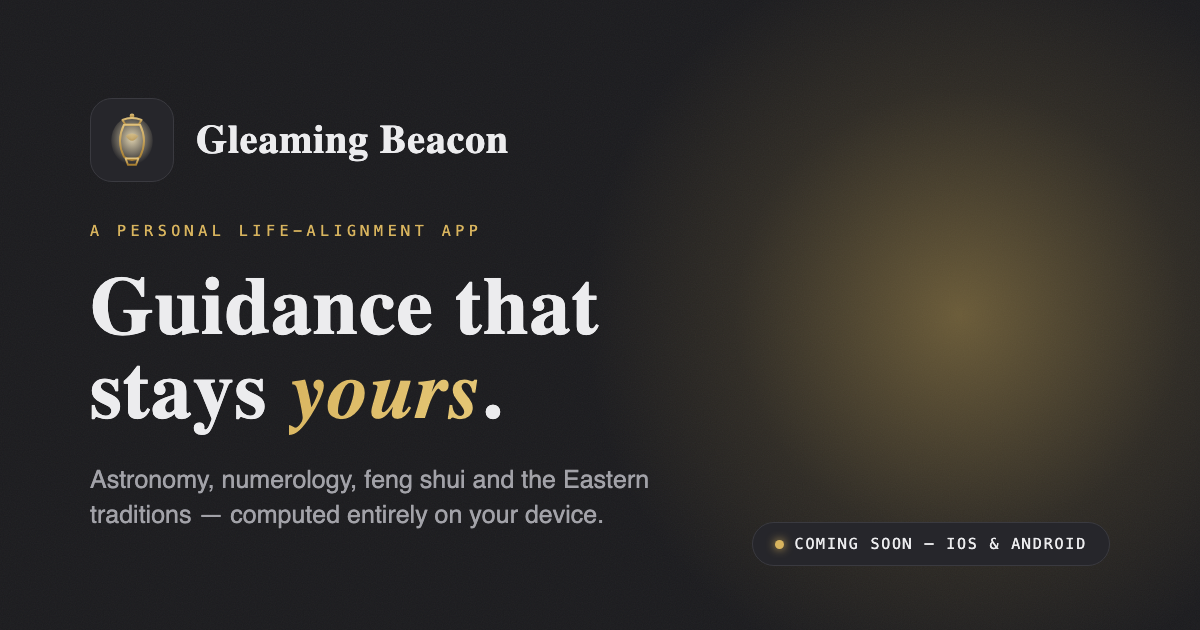
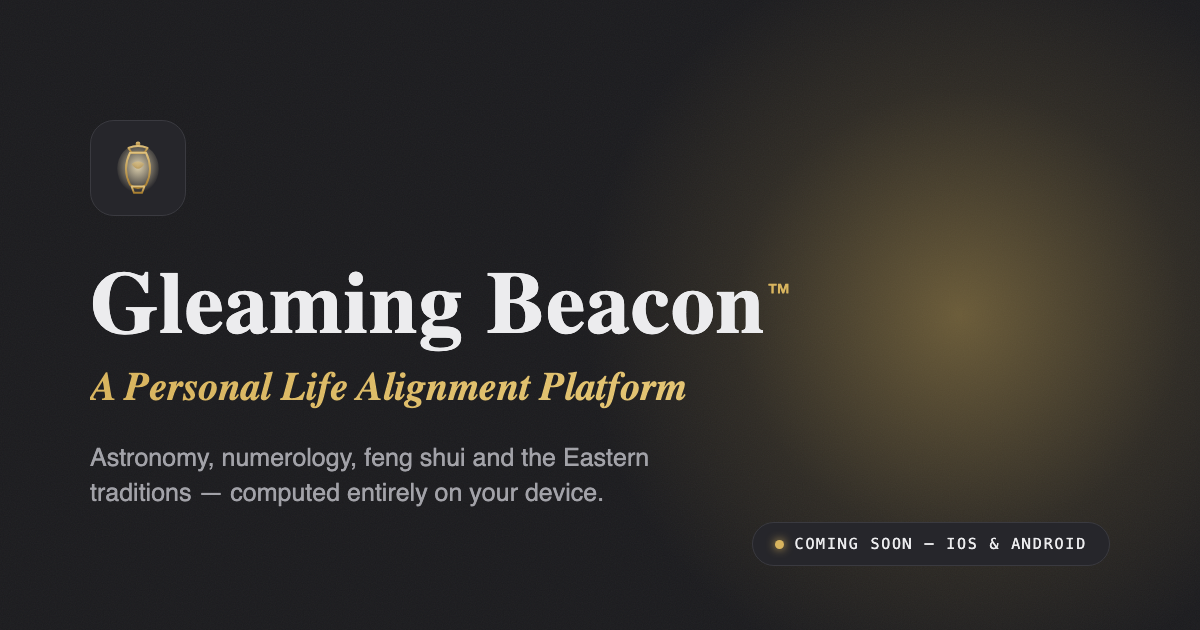
fix: sync OG card + page title to wordmark headline (Gleaming Beacon™ — A Personal Life Alignment Platform)

diff --git a/og-card.html b/og-card.html
@@ -23,17 +23,16 @@
     width: 760px; height: 760px; border-radius: 50%;
     background: radial-gradient(circle, rgba(216,180,94,0.42) 0%, rgba(216,180,94,0.10) 42%, transparent 70%);
   }
-  .content { position: relative; z-index: 2; max-width: 720px; }
-  .lockup { display: flex; align-items: center; gap: 22px; margin-bottom: 40px; }
-  .tile { width: 84px; height: 84px; border-radius: 22px; background: #26262B;
+  .content { position: relative; z-index: 2; max-width: 780px; }
+  .lockup { display: flex; align-items: center; gap: 22px; margin-bottom: 44px; }
+  .tile { width: 96px; height: 96px; border-radius: 24px; background: #26262B;
     border: 1px solid #3a3a40; display: flex; align-items: center; justify-content: center; }
-  .wordmark { font-family: 'Cormorant Garamond', serif; font-size: 40px; font-weight: 600; letter-spacing: 0.02em; }
-  .eyebrow { font-family: 'JetBrains Mono', monospace; font-size: 15px; letter-spacing: 0.3em;
-    text-transform: uppercase; color: #D8B45E; margin-bottom: 26px; }
-  h1 { font-family: 'Cormorant Garamond', serif; font-size: 82px; font-weight: 700; line-height: 1.02; letter-spacing: 0.01em; }
-  h1 em { font-style: italic; background: linear-gradient(120deg, #D8B45E, #E6C878);
+  h1 { font-family: 'Cormorant Garamond', serif; font-size: 88px; font-weight: 700; line-height: 1.02; letter-spacing: 0.01em; }
+  h1 sup { font-family: 'Jost', sans-serif; font-size: 0.3em; vertical-align: super; color: #D8B45E; font-weight: 400; }
+  .platform { font-family: 'Cormorant Garamond', serif; font-style: italic; font-size: 40px; font-weight: 600;
+    margin-top: 14px; background: linear-gradient(120deg, #D8B45E, #E6C878);
     -webkit-background-clip: text; background-clip: text; color: transparent; }
-  .sub { font-size: 25px; color: #A2A2A8; margin-top: 28px; max-width: 640px; line-height: 1.4; }
+  .sub { font-size: 25px; color: #A2A2A8; margin-top: 30px; max-width: 660px; line-height: 1.4; }
   .pill { position: absolute; z-index: 2; right: 90px; bottom: 64px;
     display: inline-flex; align-items: center; gap: 11px; font-family: 'JetBrains Mono', monospace;
     font-size: 15px; letter-spacing: 0.12em; text-transform: uppercase; color: #ECECEE;
@@ -62,10 +61,9 @@
           </g>
         </svg>
       </div>
-      <span class="wordmark">Gleaming Beacon</span>
     </div>
-    <div class="eyebrow">A personal life-alignment app</div>
-    <h1>Guidance that<br/>stays <em>yours</em>.</h1>
+    <h1>Gleaming Beacon<sup>™</sup></h1>
+    <div class="platform">A Personal Life Alignment Platform</div>
     <p class="sub">Astronomy, numerology, feng shui and the Eastern traditions — computed entirely on your device.</p>
   </div>
   <div class="pill"><span class="dot"></span> Coming soon — iOS &amp; Android</div>

diff --git a/index.html b/index.html
@@ -5,21 +5,21 @@
     <meta name="viewport" content="width=device-width, initial-scale=1.0" />
     <link rel="icon" type="image/svg+xml" href="/favicon.svg" />
 
-    <title>Gleaming Beacon™ — Guidance that stays yours</title>
+    <title>Gleaming Beacon™ — A Personal Life Alignment Platform</title>
     <meta name="description" content="A premium personal life-alignment app that unites astronomy, numerology, feng shui and Eastern traditions — computed entirely on your device. Your birth, home and family data never leaves your phone. Coming soon to iOS &amp; Android." />
     <meta name="theme-color" content="#ECECEE" media="(prefers-color-scheme: light)" />
     <meta name="theme-color" content="#1B1B1E" media="(prefers-color-scheme: dark)" />
 
     <!-- Open Graph / social -->
     <meta property="og:type" content="website" />
-    <meta property="og:title" content="Gleaming Beacon™ — Guidance that stays yours" />
+    <meta property="og:title" content="Gleaming Beacon™ — A Personal Life Alignment Platform" />
     <meta property="og:description" content="Astronomy, numerology, feng shui and Eastern traditions in one calm, private almanac — computed entirely on-device. Coming soon to iOS &amp; Android." />
     <meta property="og:url" content="https://gleamingbeacon.com/" />
     <meta property="og:image" content="https://gleamingbeacon.com/og-image.png" />
     <meta property="og:image:width" content="1200" />
     <meta property="og:image:height" content="630" />
     <meta name="twitter:card" content="summary_large_image" />
-    <meta name="twitter:title" content="Gleaming Beacon™ — Guidance that stays yours" />
+    <meta name="twitter:title" content="Gleaming Beacon™ — A Personal Life Alignment Platform" />
     <meta name="twitter:description" content="A private-by-design personal life-alignment app. Coming soon to iOS &amp; Android." />
     <meta name="twitter:image" content="https://gleamingbeacon.com/og-image.png" />
 
